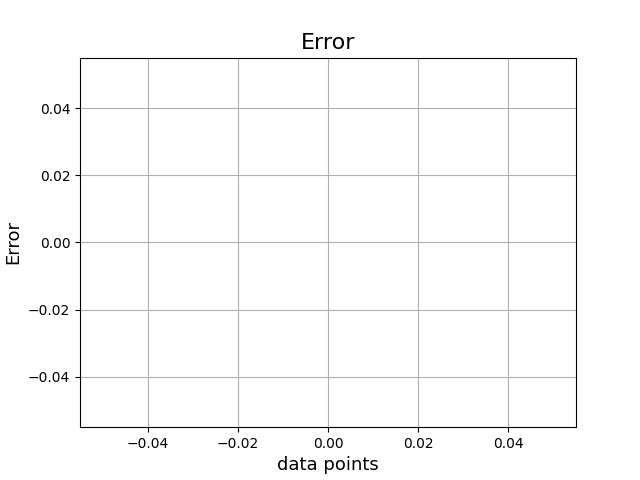
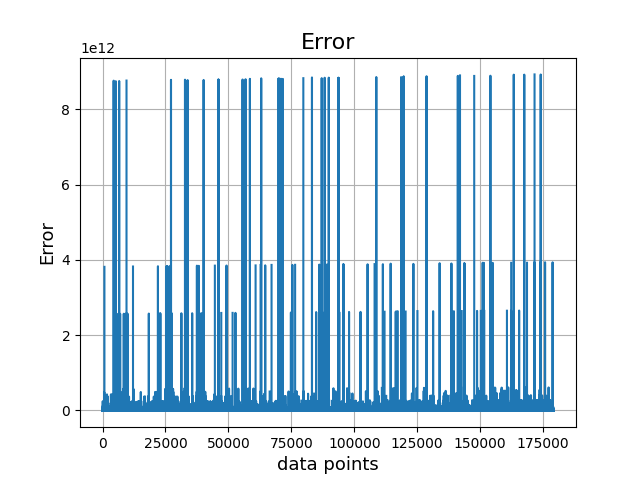
Add plotting for initial errors

diff --git a/main.py b/main.py
@@ -48,6 +48,13 @@ print(Fore.GREEN + "Complete" + Style.RESET_ALL)
 print("Estimated car price of first car (a.k.a. data point): " + str(neural_network(train_data[0]).item()))
 print("Supposed to be: " + str(train_targets[0].item()))
 
+# Test initial weights on test set, log errors
+initial_test_time = time.time()
+print("1st testing neural network....",end="")
+first_testing_loss = neural_network.test_on_data(test_data, test_targets)
+print(Fore.GREEN + "Complete" + Style.RESET_ALL)
+initial_test_time = time.time() - initial_test_time
+
 # Train neural network on training set
 train_time = time.time()
 print("Training neural network.......",end="")
@@ -69,7 +76,8 @@ test_time = time.time() - test_time
 
 # Plot results
 print("Plotting results..............",end="")
-tools.plot_results(testing_loss,filename="Fig1")
+tools.plot_results(first_testing_loss,filename="Fig1")
+tools.plot_results(testing_loss,filename="Fig2")
 print(Fore.GREEN + "Complete" + Style.RESET_ALL)
 
 # For when the above code is already working, implement the following:
@@ -87,6 +95,7 @@ print(Fore.GREEN + "Complete" + Style.RESET_ALL)
 runtime = time.time() - start_time
 
 # Run finished message and print times
-print("\nmain.py ran succesfully in {:0.1f} seconds\n".format(runtime))
-print("Training took {:0.1f} seconds with a train ratio of {:0.1f} %".format(train_time, 100*train_ratio))
+print("\nTraining took {:0.1f} seconds with a train ratio of {:0.1f} %".format(train_time, 100*train_ratio))
+print("Initial testing took {:0.1f} seconds".format(initial_test_time))
 print("Testing took {:0.1f} seconds".format(test_time))
+print("\nmain.py ran succesfully in {:0.1f} seconds\n".format(runtime))

diff --git a/tools.py b/tools.py
@@ -196,9 +196,6 @@ def init_weights(D: int, M: int, bias: bool = True) -> Union[torch.Tensor, torch
 
     return w1, w2
 
-# Measure error function
-
-
 # Activation function, h
 def h(z1: torch.Tensor, w1: torch.Tensor) -> float:
     '''
